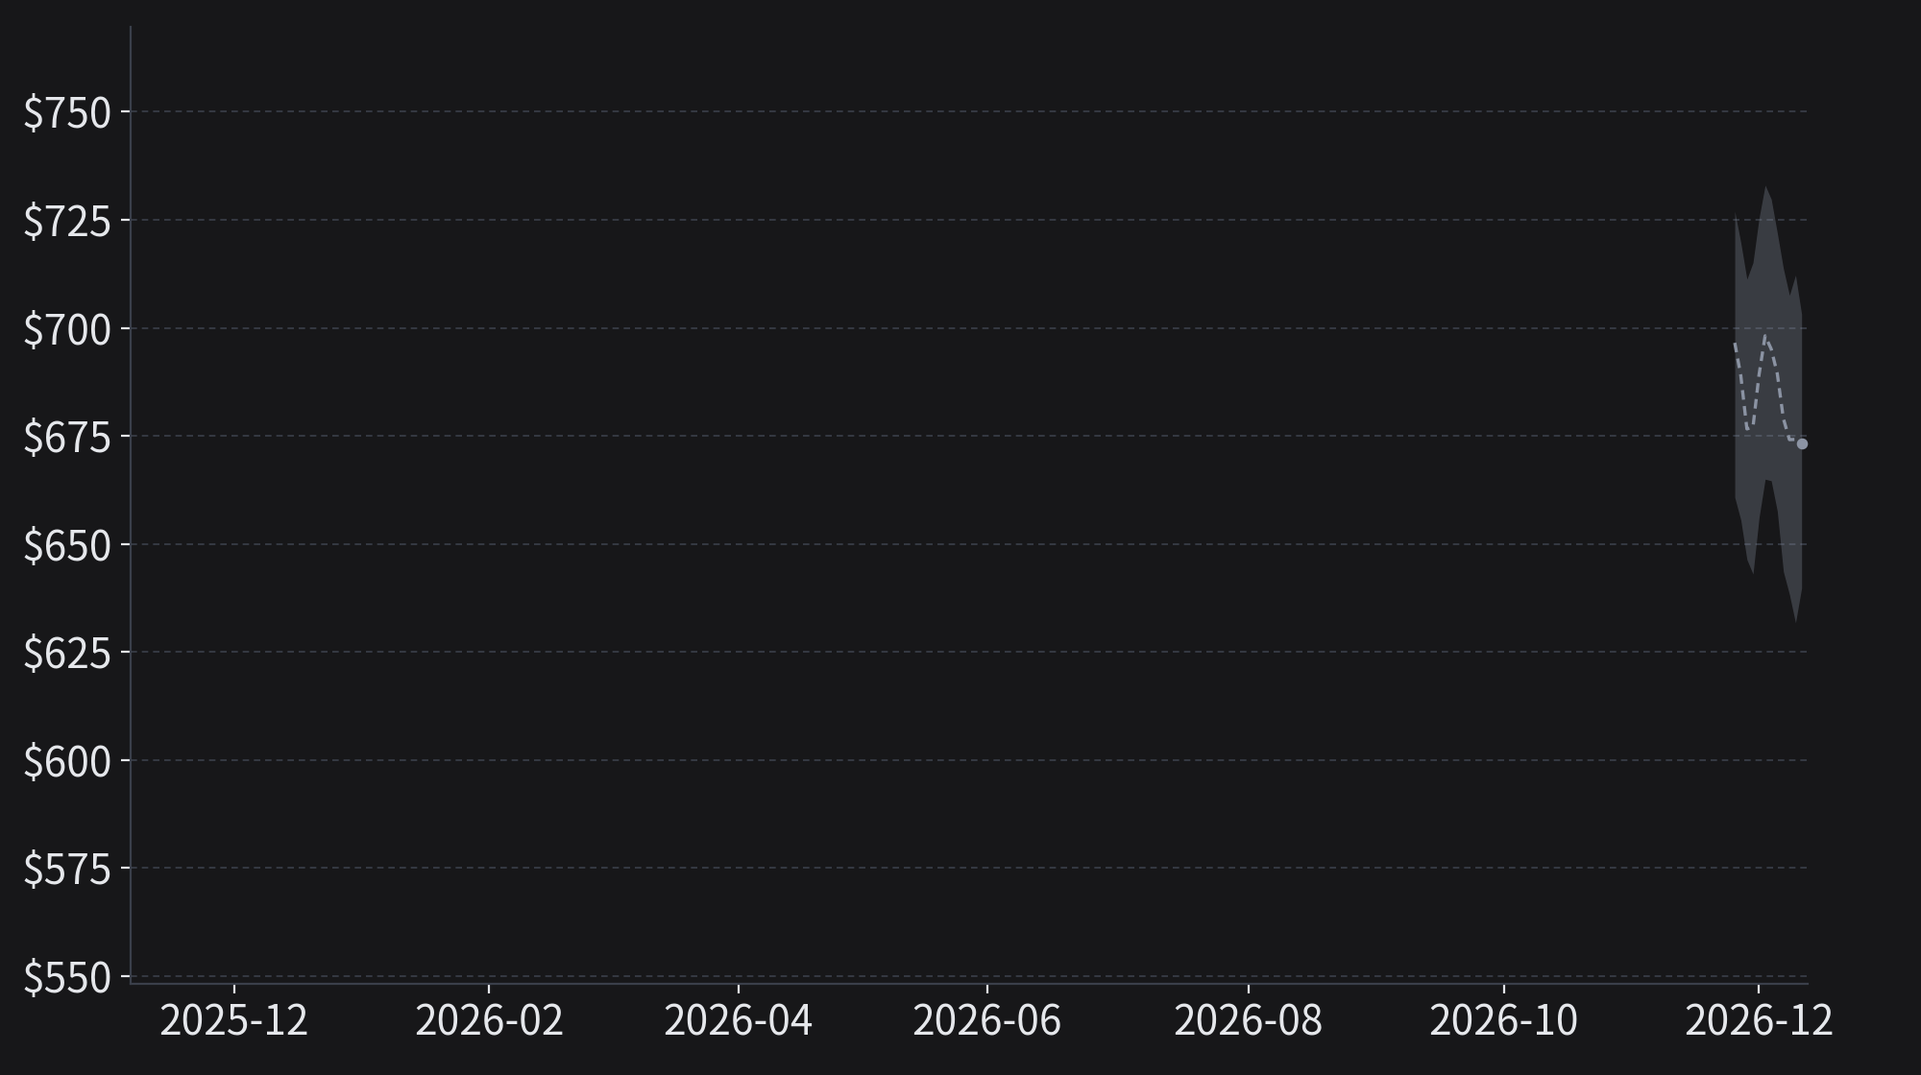
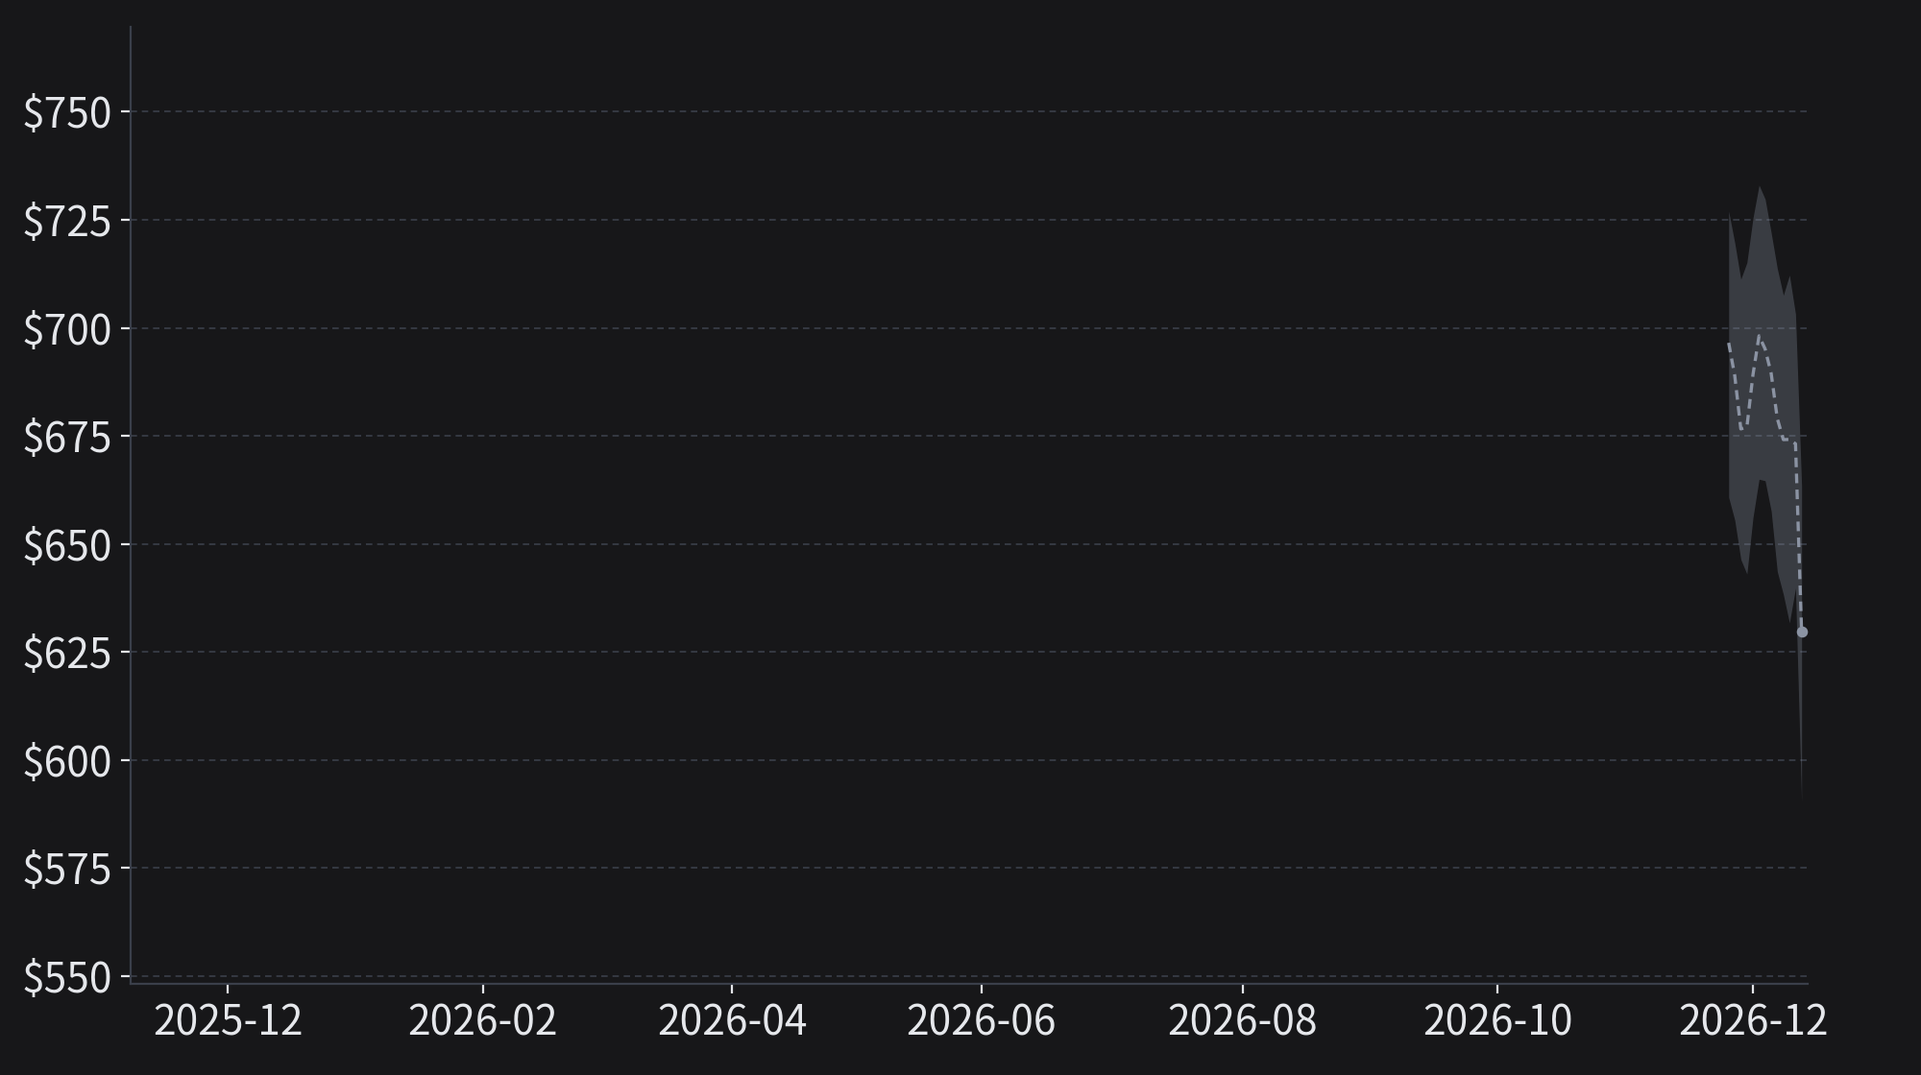
2026-11-07 nasdaq 리포트 공개본

diff --git a/r/20261107-nasdaq/report.html b/r/20261107-nasdaq/report.html
@@ -1,0 +1,91 @@
+<h2 id="1개월-지수-방향-예측">1개월 지수 방향 예측</h2>
+<p><img src="r/20261107-nasdaq/chart-nasdaq.png?v=0f7969b5bc" /></p>
+<p><img src="r/20261107-nasdaq/predict-nasdaq.png?v=a90f9c2f8d" /></p>
+<h3 id="현재-상태-ai-업종-매도와-기계적-매도가-함께-일어난-급락-뒤-반도체-주식만-먼저-반등했다"><mark>현재 상태</mark> AI 업종 매도와 기계적 매도가 함께 일어난 급락 뒤 반도체 주식만 먼저 반등했다</h3>
+<p>나스닥100은 5일 6.36% 하락해 2020년 3월 이후 가장 크게 하락했다. 미국 중간선거에서는 데이터센터의 신규 건설을 멈추겠다고 공약한 후보가 텍사스 주지사에 당선됐다. 언론은 텍사스 선거 결과와 레버리지 ETF의 기계적 매도를 급락의 원인으로 들었다.</p>
+<p>6일 나스닥100은 1.35% 올랐지만 동일가중 ETF인 QQQE는 0.44% 오르는 데 그쳤다. 반도체 대형주만 크게 반등한 것이다.</p>
+<p>시장은 아직 큰 변동을 예상한다. VIX(향후 30일 S&amp;P 500 변동 예상치)는 5일부터 3개월 변동 예상치보다 높다.</p>
+<p>다만 하이일드 채권 스프레드(신용등급이 낮은 회사채의 금리가 국채 금리보다 높은 폭)는 3월 고점을 넘었지만 위기 때보다는 낮다. 이번 급락은 AI 업종에 대한 기대와 펀드의 매매 때문에 일어난 것이다.</p>
+<p>노동통계국이 6일 발표한 10월 고용보고서에서 비농업 고용은 예상을 크게 웃돌았다. 연준이 12월에 금리를 올릴 확률이 다시 높아졌지만 나스닥100은 올랐다. 금리 인상 확률이 오른 날에도 시장은 크게 하락했던 반도체 주식을 다시 사들인 것이다.</p>
+<h3 id="주요-분기와-예측-이란-재타격-ai-인프라-기업의-신용-불안-10월-소비자물가에-따라-한-달-주가가-달라진다"><mark>주요 분기와 예측</mark> 이란 재타격, AI 인프라 기업의 신용 불안, 10월 소비자물가에 따라 한 달 주가가 달라진다</h3>
+<p>앞으로 한 달 동안 세 가지 사안이 중요하다.</p>
+<p>미국이 이란 본토를 다시 타격할 가능성은 높지 않다. 카타르의 중재 초안이 진전했다고 백악관 소식통이 말했다. 그래서 재타격할 가능성은 어제보다 줄고 종전에 합의할 가능성은 커졌다. 미국이 타격을 재개하면 유가와 금리가 함께 오른다. 그러면 지수가 하락한다.</p>
+<p>AI 데이터센터를 짓는 기업의 부채에 대한 불안이 회사채 시장에서 전반적으로 커질 가능성은 낮다. 신용등급이 낮은 AI 기업의 부도 위험에 대한 보험료는 5일 크게 올랐다가 6일 줄었다. 그래도 하이일드 채권 스프레드까지 크게 오르면 지수가 크게 하락한다.</p>
+<p>10월 근원 소비자물가는 예상대로 전월 대비 0.2% 이하로 나올 가능성이 높다. 그러면 12월 인상 뒤의 추가 인상에 대한 기대가 줄어 주가가 오른다. 근원 소비자물가가 0.3% 이상으로 나오면 지수가 하락한다.</p>
+<h3 id="종합-시나리오-지수가-크게-하락할-가능성이-가장-높고-어제보다-그-확률이-작아졌다"><mark>종합 시나리오</mark> 지수가 크게 하락할 가능성이 가장 높고, 어제보다 그 확률이 작아졌다</h3>
+<p>지수가 크게 하락할 가능성이 가장 높다. 어제보다 그 확률이 조금 작아졌다. 지수가 횡보할 가능성이 그다음이고, 어제보다 그 확률도 조금 작아졌다.</p>
+<p>지수가 크게 하락하려면 변동성이 커질 때 주식을 줄이는 펀드가 매도하는 동안 악재가 하나 더 나와야 한다. 미국이 이란 본토를 다시 타격하거나 AI 인프라를 짓는 기업의 신용 불안이 회사채 시장에서 전반적으로 커지면 지수가 크게 하락한다. 지금은 옵션 시장이 큰 변동을 예상하기 때문에 작은 악재에도 지수가 크게 움직인다.</p>
+<p>지수가 횡보하려면 이란과 신용 불안에서 새 악재 없이 10월 소비자물가가 예상대로 나와야 한다. 그러면 기계적 매도 뒤 추세추종 펀드가 주식을 다시 사면서 지수가 낙폭 일부를 회복한다.</p>
+<p>어제와 견준 변화는 두 가지 일에서 나왔다. AI 인프라를 짓는 기업의 신용 불안은 5일 이미 나타났고 시장은 그날 주가에 반영했다. 이란 사안에서는 미국과 이란이 종전에 합의할 가능성이 커졌다. 그래서 지수가 소폭 하락할 확률이 줄고 크게 상승할 확률이 커졌다.</p>
+<h2 id="주요-이슈-해설">주요 이슈 해설</h2>
+<h3 id="1-이란-재타격과-종전-협상-양방향-중요도-높음">1. 이란 재타격과 종전 협상 <code>양방향</code> <code>중요도 높음</code></h3>
+<h4 id="이슈-해설-카타르가-미국과-이란에-종전을-단계적으로-합의하는-초안을-제시했다"><mark>이슈 해설</mark> 카타르가 미국과 이란에 종전을 단계적으로 합의하는 초안을 제시했다</h4>
+<p>카타르가 미국과 이란의 협상에서 봉쇄 해제와 호르무즈 해협 재개방을 차례로 맞바꾸는 초안을 내놓았다. 미국이 이란 본토를 다시 타격할 가능성은 아직 있지만, 종전 합의를 시사하는 신호가 늘어난 것이다.</p>
+<p>미국 매체 HNGN은 6일 카타르 초안의 순서를 전했다. 첫날 미국이 해군 봉쇄와 동결한 자금의 일부를 풀고, 둘째 날 이란이 호르무즈 해협을 다시 연다. 협상이 진전했다고 백악관 소식통은 말했다. 트럼프 대통령은 같은 날 이란과 대화하고 있다고 말하면서도 결정 시한은 제시하지 않았다. 미국이 재타격을 서두르지 않겠다는 것이다.</p>
+<p>외교 접촉도 늘었다. 트럼프 대통령이 카타르 에미르와 전쟁을 끝내려는 노력을 논의했다고 카타르 측이 6일 밝혔다. 밴스 부통령과 위트코프 특사가 트럼프 대통령에게 합의를 권했다고 HNGN이 같은 날 전했다.</p>
+<p>다만 전문가들은 군사 충돌이 다시 일어날 가능성을 여전히 높게 본다. CNBC에 따르면 에너지 자문사 Rapidan Energy는 6일 군사 충돌의 재개 확률을 80%로 제시했다. 정치 위험을 분석하는 자문사 Eurasia Group은 5일 미국의 재타격 확률을 60%로 봤다. 이란은 5일 후속 협상의 조건으로 제재 완화와 봉쇄 종료를 제시했다.</p>
+<p>브렌트유는 이번 주 16% 넘게 하락해 6일 배럴당 98.32달러로 정산됐다. 시장이 종전 합의를 유가에 먼저 반영한 것이다. 예측시장 Polymarket에서 연말까지 미국과 이란이 호르무즈 합의에 이를 가능성은 6일 34.5%였다.</p>
+<p>미국과 이란이 합의를 발표해도 유가가 더 크게 내리기는 어렵다. 반대로 미국이 다시 타격하면 유가가 크게 오른다. 그러면 지수가 하락한다.</p>
+<h3 id="2-ai-인프라-기업의-신용-불안-하락-요인-중요도-높음">2. AI 인프라 기업의 신용 불안 <code>하락 요인</code> <code>중요도 높음</code></h3>
+<h4 id="이슈-해설-gpu-클라우드-기업-코어위브의-부도-위험에-대한-보험료가-5일-10월-고점을-넘었다"><mark>이슈 해설</mark> GPU 클라우드 기업 코어위브의 부도 위험에 대한 보험료가 5일 10월 고점을 넘었다</h4>
+<p>5일 AI 데이터센터를 짓는 기업의 부채에 대한 불안이 커졌다. 하이일드 채권 스프레드도 3월 고점을 넘었지만 투자등급 회사채의 추가 금리는 크게 오르지 않았다. 신용등급이 낮은 AI 기업의 부채만 시장이 위험하게 본 것이다.</p>
+<p>도이체방크에 따르면 코어위브의 5년 CDS(부도 위험에 대한 보험료)는 5일 1,289bp를 넘어 10월 고점보다 높아졌다. 같은 5일 하이일드 채권 스프레드는 3.48%로 3월 30일 고점 3.46%보다 높았다. 코어위브의 부도 위험에 대한 보험료는 6일 8% 줄어 약 1,155bp가 됐다. 시장은 급락일에 커진 부도 위험에 대한 불안을 하루 만에 일부 덜어 낸 것이다.</p>
+<p>AI 인프라를 짓는 기업의 매출 전망도 약해졌다. 6일 블룸버그 보도에 따르면 마이크로소프트가 오라클에서 빌린 컴퓨팅 용량을 끄고 있다. 같은 날 CNBC 보도에 따르면 마이크로소프트가 코어위브를 포함한 네오클라우드 파트너 명단을 줄인다. 네오클라우드는 GPU를 빌려주는 클라우드 기업이다. 두 보도는 신용등급이 낮은 AI 기업의 매출이 늦어질 수 있다는 의미이다.</p>
+<p>다만 신용시장 전체에서는 부채에 대한 불안이 크지 않다. 이번 신용 매도의 강도가 주식시장보다 낮다고 신용평가 자문사 CreditSights가 6일 평가했다. 상장되지 않은 BDC(비상장 기업에 돈을 빌려주는 투자회사)의 3분기 환매 요청이 2분기보다 줄었다고 피치가 지난달 13일 밝혔다.</p>
+<p>10일 코어위브의 3분기 실적에서는 이자비용이 회사가 제시한 8.6억~9.4억 달러를 넘는지와 차환 계획을 확인할 수 있다.</p>
+<p>신용등급이 낮은 AI 기업에 대한 불안을 시장은 5일 나스닥100의 6.36% 하락에 이미 반영했다. 그 불안이 하이일드 채권 시장에서 전반적으로 커지면 지수가 크게 하락한다.</p>
+<h3 id="3-10월-소비자물가와-12월-인상-기대-상승-요인-중요도-높음">3. 10월 소비자물가와 12월 인상 기대 <code>상승 요인</code> <code>중요도 높음</code></h3>
+<h4 id="이슈-해설-10월-고용이-예상을-웃돈-뒤-12월-금리-인상-확률이-768로-올랐다"><mark>이슈 해설</mark> 10월 고용이 예상을 웃돈 뒤 12월 금리 인상 확률이 76.8%로 올랐다</h4>
+<p>미국 노동통계국의 10월 고용보고서에서 비농업 고용이 예상보다 크게 늘었다. 연준이 12월에 금리를 올릴 가능성이 다시 높아졌다. 시장은 이제 10월 소비자물가를 보고 12월 회의 뒤의 금리 인상 횟수를 가늠한다.</p>
+<p>6일 CNBC 보도에 따르면 고용보고서 뒤 CME FedWatch 기준 12월 금리 인상 확률이 76.8%로 올랐다. 같은 날 노동통계국 발표에 따르면 비농업 고용이 16만 5천 명 늘어 다우존스 예상 5만 9천 명을 크게 웃돌았다. 실업률도 4.1%로 내렸다. 6일 로이터에 따르면 트레이더들은 마지막 금리 인상을 6월에서 4월로 앞당겨 예상했다. 시장은 고용 지표 하나 때문에 2027년 상반기까지의 금리 인상 경로를 앞당긴 것이다.</p>
+<p>물가 상승세는 둔화할 것으로 전망된다. FactSet 컨센서스는 10월 근원 소비자물가의 상승률을 전월 대비 0.2%로 본다. 웰스파고는 6일 근원 0.21%를 예상하면서도 12월 인상 전망은 유지했다. 컨센서스대로 나오면 시장이 이미 예상한 결과라 12월 인상 확률은 크게 움직이지 않는다.</p>
+<p>다만 근원 물가가 예상보다 높게 나올 가능성도 있다. 9월 근원 소비자물가는 예상 0.2%를 넘은 0.3%였다. 구형 전자제품의 가격 인상이 10월 소비자물가에 반영될 수 있다고 경제 연구소 Employ America가 지난달 29일 지적했다.</p>
+<p>시장은 12월 인상을 대부분 예상하고 있다. 근원 물가가 예상대로 나오면 12월 인상 뒤의 추가 인상에 대한 기대가 줄어든다. 그러면 주가가 오른다. 반대로 근원 물가가 0.3% 이상으로 나오면 2027년 인상 경로가 더 높아진다. 그러면 지수가 하락한다.</p>
+<h3 id="4-텍사스-데이터센터-규제에-대한-우려-하락-요인-중요도-높음">4. 텍사스 데이터센터 규제에 대한 우려 <code>하락 요인</code> <code>중요도 높음</code></h3>
+<h4 id="이슈-해설-데이터센터-건설을-중단하겠다고-공약한-텍사스-주지사-당선자가-내년-1월에-취임한다"><mark>이슈 해설</mark> 데이터센터 건설을 중단하겠다고 공약한 텍사스 주지사 당선자가 내년 1월에 취임한다</h4>
+<p>미국 중간선거에서 민주당이 텍사스 주지사와 주 하원을 차지했다. 텍사스 주지사 당선자가 데이터센터 규제를 시행하려면 몇 달이 걸린다. 그래도 2027년 이후 AI 데이터센터를 짓는 일이 늦어질 수 있다는 우려를 시장은 주가에 아직 반영하고 있다.</p>
+<p>미국 방송사 Fox 26은 4일 지나 이노호사 당선자가 내년 1월 19일 정오에 취임한다고 전했다. 같은 날 MIT 테크놀로지 리뷰 보도에 따르면 민주당이 24년 만에 텍사스 하원을 장악했다. 당선자는 이번 달 안에는 규제를 시행할 권한이 없지만, 취임 뒤에는 법을 만들 수 있다.</p>
+<p>5일 데이터센터를 짓는 일이 늦어질 수 있다는 우려 때문에 시장은 주식을 팔기 시작했다. 5일 CNN 보도에 따르면 매도는 주로 텍사스 주지사 선거에서 민주당이 승리했기 때문에 일어났다. 기술업계의 설비투자가 가장 빠르게 늘어나는 시기를 Yorkville의 애널리스트 Dan Ives는 같은 날 2028~2029년에서 2027년으로 앞당겨 예상했다. 4일 MIT 테크놀로지 리뷰 보도에 따르면 은행과 대출기관은 지원할 데이터센터 프로젝트를 더 까다롭게 고른다.</p>
+<p>다만 규제가 데이터센터 건설의 시점을 늦추는 정도라고 골드만삭스는 4일 봤다. 데이터센터 수요는 사라지지 않고 늦게 나타난다는 것이다.</p>
+<p>전력망을 운영하는 기관 ERCOT가 12월 10일 감사 결과를 주 규제기관에 제출하는 일 말고는 텍사스에 공식 일정이 없다. 증권사가 설비투자 추정을 수치로 낮추면 지수가 더 하락한다.</p>
+<h3 id="5-체계적-펀드의-기계적-매도-양방향-중요도-높음">5. 체계적 펀드의 기계적 매도 <code>양방향</code> <code>중요도 높음</code></h3>
+<h4 id="이슈-해설-레버리지-etf는-5일-매도를-대부분-마쳤고-변동성-목표-펀드의-매도가-남았다"><mark>이슈 해설</mark> 레버리지 ETF는 5일 매도를 대부분 마쳤고 변동성 목표 펀드의 매도가 남았다</h4>
+<p>나스닥100 급락일에 레버리지 ETF와 변동성 목표 펀드 같은 체계적 펀드가 주식을 기계적으로 팔았다. 레버리지 ETF의 매도는 대부분 끝났지만, 변동성 목표 펀드는 며칠 더 주식을 팔 수 있다.</p>
+<p>로이터가 인용한 노무라 메모에 따르면 레버리지 ETF는 5일 장 마감 무렵 약 470억 달러어치 주식을 팔 것으로 예상됐다. 변동성 목표 펀드가 앞으로 며칠 동안 약 500억 달러어치 주식을 더 줄여야 한다고 JPMorgan은 5일 보고서에서 추정했다. 가격이 움직인 하루 이틀 뒤에야 변동성 목표 펀드가 주식을 판다. 6일 반등 뒤에도 매도 물량이 남아 있는 것이다.</p>
+<p>매도 뒤 지수가 반등할 여력도 커졌다. 추세추종 펀드(CTA)가 이미 순매도로 돌아서 앞으로 주식을 사들일 가능성이 크다고 JPMorgan은 5일 봤다. Hedgeweek는 4일 헤지펀드가 지난달 8~14일 AI 주식을 닷새 연속 팔아 지난해 초부터 순매수한 규모를 모두 상쇄했다고 전했다.</p>
+<p>다만 시장은 아직 큰 변동을 예상한다. 6일 VIX는 하락했지만 여전히 3개월 변동 예상치보다 높다. 5일 노무라 추정에 따르면 주가가 1% 더 하락할 때마다 옵션 딜러가 약 70억 달러어치를 더 팔 수 있다.</p>
+<p>6일 나스닥100이 1.35% 오르면서 급락일에 나온 레버리지 ETF의 매도는 대부분 끝났다. 지수가 다시 크게 하락하면 옵션 딜러와 변동성 목표 펀드가 주식을 더 판다. 그러면 지수가 더 하락한다. 지수가 더 하락하지 않으면 추세추종 펀드가 주식을 다시 산다. 그러면 지수가 오른다.</p>
+<h3 id="검토했지만-비중을-낮춘-이슈">검토했지만 비중을 낮춘 이슈</h3>
+<ul>
+<li><strong>앤트로픽 상장</strong>: 앤트로픽이 공모를 미루거나 공모 가격을 낮출 가능성이 커졌다. 그래도 AI 대형주에서는 공모 주간에만 자금이 빠져나가 주가에 부담이 된다.</li>
+<li><strong>엔비디아 3분기 실적</strong>: 기대를 웃돌아 주가가 오를 가능성과 기대를 웃돌고도 다음 날 주가가 내릴 가능성이 비슷하다. 그래서 한 달 방향을 한쪽으로 정하지 않는다.</li>
+<li><strong>미중 무역휴전과 희토류 유예 만료</strong>: 관세 제외가 만료돼도 지수 기업의 이익에 주는 영향이 작다.</li>
+<li><strong>메타의 대규모 주식·채권 조달</strong>: 메타의 조달이 주가에 주는 영향은 AI 인프라 기업의 신용 불안과 앤트로픽 상장 이슈에서 이미 다룬다.</li>
+</ul>
+<h2 id="다가오는-이벤트">다가오는 이벤트</h2>
+<h3 id="1106금-장전-10월-고용보고서-중요도-높음" data-day="2026-11-06" data-level="high"><span class="when">11/06(금) 22:30 KST</span>10월 고용보고서 <code>중요도 높음</code></h3>
+<table class="events judged">
+<thead><tr><th>분기</th><th>확률</th><th>전개 예상</th></tr></thead>
+<tbody>
+<tr class="hit"><td class="branch">실업률 4.1% 이하·고용 견조</td><td class="chance">32%</td><td>12월 금리 인상 가능성이 다시 커져 기술주가 하락한다 <span class="outcome">→ 10월 비농업 고용은 16만 5천 명 늘어 예상 5만 9천 명을 크게 웃돌았고 실업률은 4.1%로 내렸다. 12월 인상 확률은 약 67%에서 77%로 올랐지만 나스닥100은 반도체 반등에 힘입어 1.35% 올랐다.</span></td></tr>
+<tr><td class="branch">실업률 4.2~4.3% 완만한 둔화</td><td class="chance">58%</td><td>시장이 예상한 결과라 금리 인상 기대가 크게 바뀌지 않는다. 주가는 전날 급락한 뒤 시장의 매매에 따라 움직인다</td></tr>
+<tr><td class="branch">실업률 4.4% 이상 급랭</td><td class="chance">10%</td><td>국채 금리는 내리지만 경기 둔화에 대한 우려가 커져 주가가 하락할 수 있다</td></tr>
+</tbody>
+</table>
+<p><img src="r/20261107-nasdaq/tree-nasdaq.png?v=20d5079d63" /></p>
+<h3 id="1110화-장전-미중-무역휴전희토류-유예-만료-중요도-보통" data-day="2026-11-10" data-level="mid"><span class="when">11/10(화) 14:01 KST</span>미중 무역휴전·희토류 유예 만료 <code>중요도 보통</code></h3>
+<table class="events">
+<thead><tr><th>분기</th><th>확률</th><th>전개 예상</th></tr></thead>
+<tbody>
+<tr><td class="branch">유예 연장 공고·통제 정지 유지</td><td class="chance">72%<br><small class="delta down">▼8%p</small></td><td>시장이 이미 예상한 결과라 주가가 크게 움직이지 않는다</td></tr>
+<tr><td class="branch">301조 제외 만료 또는 희토류 통제 재개</td><td class="chance">28%<br><small class="delta up">▲8%p</small></td><td>반도체 공급망에 대한 우려가 커져 기술주가 소폭 하락한다</td></tr>
+</tbody>
+</table>
+<h3 id="1110화-장전-10월-cpi-중요도-높음" data-day="2026-11-10" data-level="high"><span class="when">11/10(화) 22:30 KST</span>10월 CPI <code>중요도 높음</code></h3>
+<table class="events">
+<thead><tr><th>분기</th><th>확률</th><th>전개 예상</th></tr></thead>
+<tbody>
+<tr><td class="branch">근원 전월비 0.3% 이상</td><td class="chance">38%<br><small class="delta flat">–</small></td><td>12월 이후의 금리 인상 기대가 커져 지수가 하락한다</td></tr>
+<tr><td class="branch">근원 전월비 0.2% 이하</td><td class="chance">62%<br><small class="delta flat">–</small></td><td>추가 인상에 대한 걱정이 줄어 지수가 오른다</td></tr>
+</tbody>
+</table>
